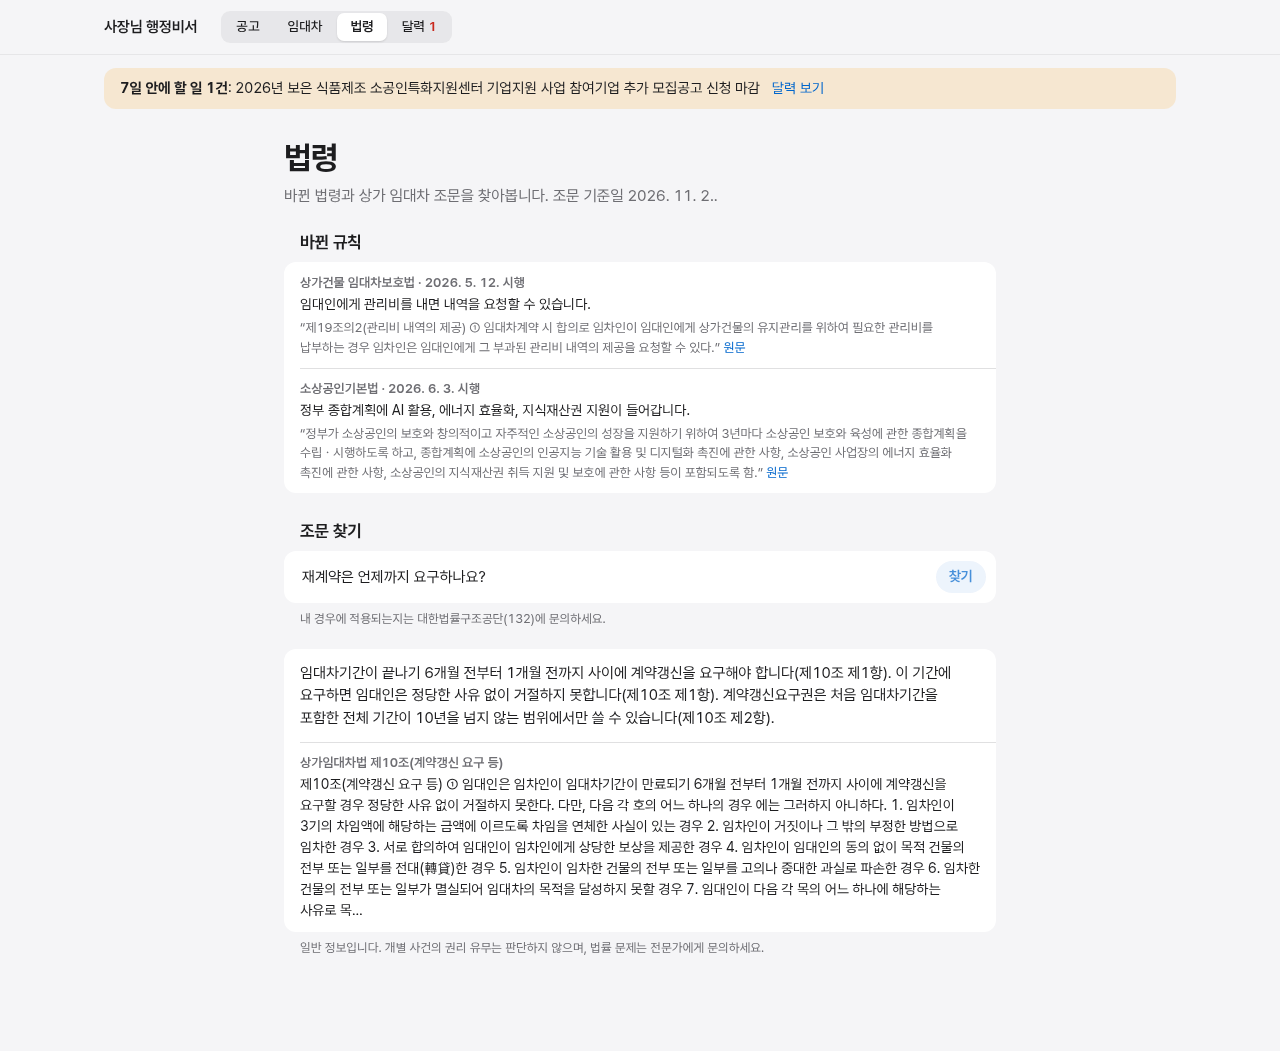
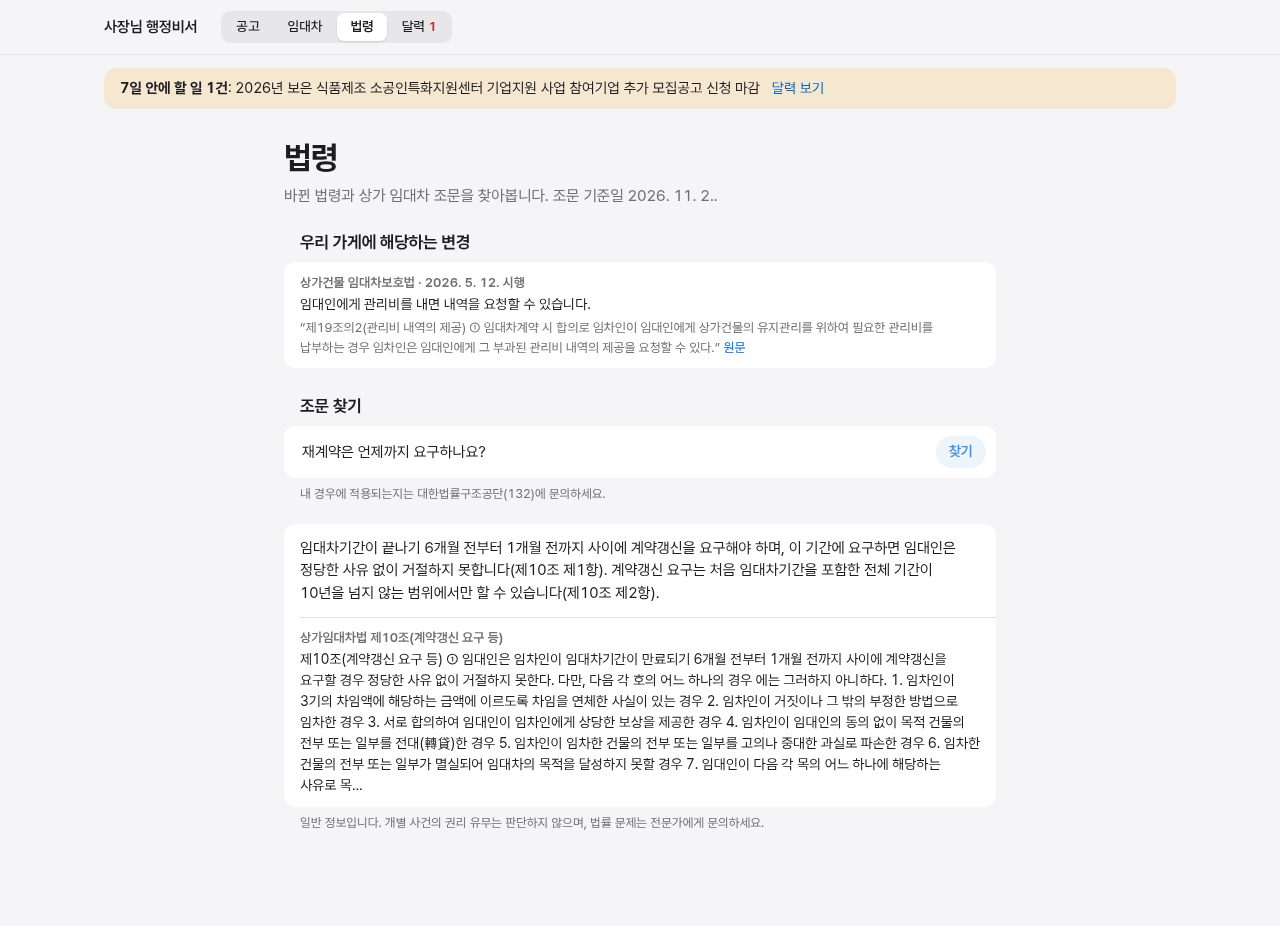
실행 안내 보완, 법령 화면 교체, 서식 입력 스크립트 추가

diff --git a/scripts/fill_forms_20261102_v1.py b/scripts/fill_forms_20261102_v1.py
@@ -1,0 +1,120 @@
+"""서식 입력 스크립트 생성기.
+
+흐름: 칸별 문구를 정의 → 한글 자동화용 PowerShell 작업 파일을 만듦 → 실행은 한글이 설치된 PC에서 한다.
+목적: 원본 HWP 서식의 칸에 내용을 직접 넣는다. 수치는 results/RESULTS_20261102.md와 같아야 한다.
+결과 해석: 이름, 생년월일, 연락처, 팀명, 날인, 서명은 넣지 않는다. 참가자가 직접 쓴다.
+"""
+import sys
+from PIL import Image
+
+R = "/home/abcde/sosang_agent"
+TOPIC = "소상공인 지원공고·임대차 계약서·법령 확인 에이전트"
+
+
+def q(s):
+    return "'" + s.replace("'", "''") + "'"
+
+
+def arr(lines):
+    return "@(" + ",".join(q(x) for x in lines) + ")"
+
+
+def table(rows):
+    return "@(" + ",".join("," + arr(r) if False else arr(r) for r in rows) + ")"
+
+
+def pic(f, w):
+    a, b = Image.open(f"{R}/results/screens/{f}" if f != "fig_holdout3.png" else f"{R}/results/{f}").size
+    return ("pic", f, w, round(w * b / a))
+
+
+CELLS = [
+    ("겪고 있는 문제와 해결 필요성을 간략히", ["담당 직원이 없는 소상공인은 지원공고, 임대차 기한, 법령 변경을 혼자 확인해야 함. 수집 공고 46건은 평균 약 1.4만 자이고, 같은 소기업 매출 기준도 공고마다 다르게 적혀 있음"]),
+    ("활용한 AI 기술", ["Claude API 기반 에이전트 10개. 숫자·날짜·업종은 RDF 온톨로지와 규칙으로 대조, 규칙으로 정하지 못한 조건은 LLM이 공고 문구로 대조. 출력은 SHACL과 인용 확인으로 검사. 개발·검수에 Claude Code, Codex 사용"]),
+    ("개발·구현한 프로그램·서비스 등의 핵심", ["공고 조건 일치/불일치/확인 필요와 근거, 지원 방식·상환 여부·금액, 필요한 항목만 질문, 계약서 날짜로 법정 기간 계산(권리 유무는 판단하지 않음), 법령 변경·조문 찾기, 행정 달력. 웹 시제품, 시연 영상"]),
+    ("실제 업무·경영 현장에서 활용할 수 있는", ["가게 정보와 계약서를 넣으면 대조한 공고, 법정 기간, 해당 법령을 한 화면에서 확인하고 달력에 등록. 최종 신청 자격은 주관기관에, 개별 법률 문제는 전문가에게 확인"]),
+    ("고객서비스 개선 등 기대효과", ["공고 확인 시간과 기한 누락 감소 기대. 효과는 측정하지 않음"]),
+]
+B1 = ["대상: 지원공고와 임대차 기한을 직접 챙기는 소상공인·소공인, 예비창업자",
+      "참고 통계: 중소기업중앙회 소상공인 500개사 조사 보도에서 디지털·AI 정부 지원사업 미참여 이유로 '지원사업이 있는지 몰랐다'가 76.2%로 가장 많음(이데일리, 2026.6.9). 디지털·AI 지원사업 조사이며 지원사업 전체로 일반화하지 않음",
+      "실제 공고에서 확인한 문제",
+      "- 같은 소기업 매출 기준이 공고마다 다름: 음식점 생활문화 공고 15억 원, 고용보험료 공고 10억 원(현행 법령 기준 미확인)",
+      "- 같은 공고 안의 표기 충돌: 보은군 공고 소재지 조건 '본사, 공장 중 1개 이상'과 '본사, 공장 또는 사업장'",
+      "- 일정 표기 오류: 보은군 공고 '10.22~10.5'",
+      "- 다른 공고의 제외 업종 참조: 브랜드 공고가 정책자금 제외 업종 참조",
+      "임대차 기한: 상가건물 임대차보호법 제10조 제1항의 갱신 요구 기간은 만료 6개월 전부터 1개월 전까지이며, 전체 임대차기간 제한(제2항)과 거절 사유가 따로 있음",
+      "범위: 공고 대조와 조문 정보까지. 법률 해석, 계약서 유불리 검토, 자격 확정, 서류 대리 작성은 하지 않음. 표현을 제한해도 법적 위험이 모두 없어지지는 않으므로 외부 공개·유료화 전 전문가 검토 필요"]
+B2 = ["판단 순서: 규칙 → 사장님 답변·설명 → LLM 조건 판단. 기관 재량 조항과 공고 내 표기 충돌은 판단하지 않음. 기관 재량 표시는 3차 측정에서 정답 대비 12/24로 누락이 남아 있음",
+      "사용 도구",
+      "- Claude API(claude-opus-5-5): 시스템 내 에이전트",
+      "- Claude Code: 코드 작성, 데이터 수집, 평가 실행, 라벨 초안 보조",
+      "- Codex CLI: 기획 검토, 정답 라벨 감수, 독립 정답 작성, 보고서 감수",
+      "- rdflib, pySHACL, FastAPI, PyMuPDF, matplotlib",
+      "데이터: 중소벤처기업부·기업마당 공개 공고, 국가법령정보센터 조문(2026-11-02 수집). 가상 프로필과 가상 계약서만 사용. 개인정보·기업 내부 데이터 미사용",
+      ("table", [["구성", "역할"], ["총괄 에이전트", "공고 분석 때 도구 호출 순서 결정, 재추출 지시, 추출 조건 채택"], ["문서 해석", "공고 조건 구조화, 근거 문구·쪽 번호 포함"], ["근거 검증", "조건을 원문과 독립 대조, 지적의 원문 근거도 코드로 확인"], ["진술 대조", "규칙으로 대조하기 어려운 조건을 사장님 설명과 대조, 설명에 없는 문구를 든 결과는 폐기"], ["조건 판단", "남은 조건을 공고 문구와 입력 정보로 잠정 대조, 공고에 없는 문구를 든 결과는 폐기, 사용 공고는 화면 표시"], ["자금 해석", "지원 방식, 상환 여부, 금액, 자부담 추출"], ["임대차 문서 해석", "계약서의 기간, 보증금, 차임, 소재지 추출"], ["법령 안내", "저장된 조문·개정 설명만 근거로 일반 내용 설명, 개별 사건 판단은 상담처 안내"], ["프로필 인터뷰", "누락된 입력 항목을 쉬운 질문으로 작성"], ["안내 작성", "판정 결과로 할 일 작성, 금지 표현 검사"], ["온톨로지(RDF)", "업종 계층, 출처별 소기업 매출 기준, 제외 업종 코드 39개와 예외, 임대차 기간 규칙, 지역별 보증금액"], ["SHACL·lint", "조건 구조 위반, 빈 값, 기간 누락, 인용 오류 검사"], ["규칙 판정기", "숫자·날짜·업종 조건, OR 그룹, 기간 상태 계산"]])]
+B3 = ["사용자 흐름",
+      "1) 가게 정보 입력(선택: 가게 설명, 매출 변화)",
+      "2) 공고별 결과 확인: 일치/확인 필요/불일치, 지원 방식, 상환 여부, 금액",
+      "3) 질문 답변: 답은 모든 공고에 반영, 상태 변화 표시",
+      "4) 필요하면 남은 조건을 AI로 잠정 대조: 'AI 판단 포함, 기관 확인 필요' 표시",
+      "5) 조건별 근거 확인, 할 일 보기, 공고 원문 이동",
+      "6) 임대차 계약서를 넣어 법정 기간과 금액 기준 확인",
+      "7) 가게에 해당하는 법령 변경과 조문 확인",
+      "8) 행정 달력 확인, 달력 파일 받기(7일 전·1일 전 알림)",
+      pic("flow_evidence.png", 150), pic("calendar.png", 150),
+      "테스트 결과: 코드와 정답을 먼저 고정한 뒤 새 공고 5건, 가상 사례 30건으로 측정",
+      ("table", [["비교군", "공고 상태 일치", "잘못된 일치", "확인 필요 재현율"], ["풀 시스템", "23/30", "4", "7/10"], ["온톨로지 제거", "17/30", "1", "9/10"], ["LLM 조건 판단 제거", "16/30", "3", "6/10"], ["진술 대조까지 제거", "11/30", "0", "5/10"], ["단일 에이전트", "11/30", "0", "5/10"], ["LLM 직접 응답", "27/30", "0", "9/10"]]),
+      pic("fig_holdout3.png", 140),
+      "- 잘못된 일치: 정답이 불일치·확인 필요인데 일치로 출력한 사례",
+      "- 공고 상태 일치와 잘못된 일치 모두 LLM 직접 응답이 더 좋았다. 앞선 측정에서도 일치 수는 같은 방향이었다",
+      "- 풀 시스템의 잘못된 일치 4건이 가장 큰 약점이다. 화면에 AI 판단 여부를 표시하고 기관 확인을 안내한다",
+      "- 제거판 대비 일치 수 차이는 LLM 조건 판단 +7건, 진술 대조 +5건, 온톨로지 +6건이며, 잘못된 일치도 각각 +1, +3, +3건 증가",
+      "- 이번 표본에서 재검증 루프에 따른 공고 상태 일치 수 차이는 관찰되지 않음(각 11/30)",
+      "- 기간 상태는 전 비교군 30/30. 조건 추출 F1은 엄격 기준 0.506, 필드·값 기준 0.776, 인용 오류 0건(문구 존재 기준)",
+      "- 측정 이력(풀 시스템/직접 응답, 참가자 수정 정답으로 재채점): 첫 평가 26/42·38/42(재채점 전 직접 응답 39), 1차 새 공고 15/30·24/30(재채점 전 14·23), 2차 새 공고 19/24·23/24(재채점 전 20·24), 3차 새 공고 23/30·27/30. 회차마다 오답을 보고 구조를 개선해 코드가 다르며, 수정 후 같은 공고를 다시 잰 수치는 주 수치로 쓰지 않음",
+      "- 정답 독립성 점검: Codex가 1·2차 54건의 정답을 따로 작성한 결과 49건이 기존 정답과 같았고, Codex 정답 기준으로도 직접 응답이 가장 높았다(직접 응답 44, 풀 시스템 40)",
+      "직접 응답과 다른 점",
+      "- 근거: 조건별 원문 문구와 쪽 번호. 쪽 구분이 없는 문서는 쪽 번호가 1로 표시됨",
+      "- 반복 일관성: 진술 대조 3회 반복 상태 변경 0건, 조건 판단 2회 반복 30건 중 1건. 직접 응답은 별도 측정(1차) 3회 반복 30건 중 3건. 동일 표본 비교는 아님",
+      "- 비용(호출 기록의 토큰 × 입력 $4·출력 $20/백만 토큰 추정, 질문·안내 작성 제외): 직접 응답 1회 약 $0.066, 조건 확정 공고당 약 $0.6, 진술 대조 1회 약 $0.009, 조건 판단 1회 약 $0.056, 규칙 판정은 LLM 호출 없음",
+      "추가 기능 점검(작성자가 정답을 정한 소규모 점검, 법률 정확도 평가 아님)",
+      ("table", [["기능", "결과"], ["가상 계약서 5건의 시작일·종료일·보증금·차임 추출(날짜 미기재 1건 포함)", "5/5"], ["법령 질문 12건 조문 검색", "10/12"], ["판단 요구 질문 3건 판단 거절", "3/3"], ["공고 15건 돈 항목 근거 문구 확인", "15/15"]]),
+      "한계",
+      "- 정답은 AI 초안과 Codex 감수 단계이며 1·2차 일부 조항만 참가자가 확인함. 참가자 수정(5사례)은 점수를 본 뒤 재채점으로 반영했고 시스템은 다시 실행하지 않음. 3차 정답은 참가자가 정한 원칙에 따라 AI가 작성했으며 사람이 사례별로 검증하지 않음. 전문가 검증 없음",
+      "- 정답과 프로필 문장을 AI가 작성해 LLM 계열 비교군에 유리할 수 있음",
+      "- 프로필과 계약서는 가상이고 표본이 작아 공고 전반의 정확도가 아님. 실제 사장님 테스트와 시간 절감 측정은 하지 않음",
+      "- 조문은 2026-11-02 수집본. 메시지 발송 알림은 없고 화면 표시와 달력 파일 알림만 제공"]
+B4 = ["활용: 소상공인 지원센터, 상인회 상담 창구에서 시범 사용 검토",
+      "기대효과: 공고 확인 시간과 기한 누락 감소. 효과는 측정하지 않았으며 사장님 대상 테스트가 다음 단계임",
+      "비용 예시(공고 46건 가정, 추정): 직접 응답은 사용자당 약 $3.0. 이 시스템은 최초 조건 확정에 약 $28이 들고(공고 갱신·재추출 시 추가), 규칙 판정의 추가 LLM 비용은 없음. 진술 대조를 46건 모두 수행하면 사용자당 약 $0.41, 조건 판단까지 수행하면 약 $2.6 추가"]
+B5 = ["실제 사장님 테스트와 사람이 작성한 정답으로 정확도 재측정",
+      "잘못된 일치 감소: LLM 교차 확인, OR 안의 AND 표현, 재보증 제한 목록 추가",
+      "공고·법령 자동 수집, 정정 공고 비교, 메시지 알림",
+      "지자체 공고, 주택 임대차, 세무·노무 정보로 확대"]
+
+
+def body(find, blocks):
+    out = [f"if(-not (Find {q(find)})){{ 'NOTFOUND {find}' }} else {{ SelPara; $h.Run('Delete')|Out-Null; Black"]
+    first = True
+    for b in blocks:
+        if not first:
+            out.append("Para; Black")
+        first = False
+        if isinstance(b, str):
+            out.append(f"Ins {q(b)}")
+        elif b[0] == "table":
+            rows = "@(" + ",".join("(," + "@(" + ",".join(q(c) for c in r) + "))" if False else "@(" + ",".join(q(c) for c in r) + ")" for r in b[1]) + ")"
+            out.append(f"Table {rows}")
+        else:
+            out.append(f"Pic {q(b[1])} {b[2]} {b[3]}")
+    out.append("'ok body " + find[:14].replace("'", "") + "' }")
+    return "\n".join(out)
+
+
+f2 = [f'"open " + $h.Open("$dir\\form2.hwp","HWP","")', f'RightOf {q("공모 분야")} {q("③ 업무자동화·생산성")}', f'RightOf {q("출품 주제")} {q(TOPIC)}', "if(Find '2026. ○○. ○○'){ Ins '2026. 11. 03' } else { 'NOTFOUND date' }", f'RightOf {q("AI활용 주제")} {q(TOPIC)}']
+f2 += [f"FillPara {q(a)} {arr(b)}" for a, b in CELLS]
+f2 += [body("겪고 있는 문제와 해결 필요성, 대상", B1), "DelPara '문제 해결을 위해 활용한 AI 기술' | Out-Null" if False else body("문제 해결을 위해 활용한", B2), "DelPara '생성형 AI, 기존'", body("개발·구현한 프로그램·서비스 등의 주요", B3), "DelPara '필요한 경우 화면 캡처'", "if(Find '테스트 결과 등을 활용하여 제시'){ $h.Run('Delete')|Out-Null; 'del tail' } else { 'no tail' }", body("출품작을 중소기업", B4), "DelPara '실제 적용 또는 테스트'", body("출품작의 기능 개선", B5)]
+f2 += ['"pages " + $h.PageCount', '"save " + $h.SaveAs("$dir\\form2_out.hwp","HWP","")', '"pdf " + $h.SaveAs("$dir\\form2_out.pdf","PDF","")']
+f1 = ['"open " + $h.Open("$dir\\form1.hwp","HWP","")', "foreach($p in @(@('□ 자체 개발','☑ 자체 개발'),@('□ 기존 AI','☑ 기존 AI'))){ if(Find $p[0]){ Ins $p[1]; 'ok '+$p[1] } else { 'NOTFOUND '+$p[0] } }", "if(Find '☐ 팀(   명)'){ Ins '☑ 팀( 3 명)'; 'ok team' } elseif(Find '□ 팀('){ SelPara; 'team-other' } else { 'NOTFOUND team' }", "FillPara '① 매출' @('③ 업무자동화·생산성')", "DelPara '④'", f"FillPara 'AI를 활용하여 수행한' {arr([TOPIC])}", "DelPara '(작성 시 파란색'", '"save " + $h.SaveAs("$dir\\form1_out.hwp","HWP","")', '"pdf " + $h.SaveAs("$dir\\form1_out.pdf","PDF","")']
+open(sys.argv[1], "w", encoding="utf-8").write("\n".join(f2))
+open(sys.argv[2], "w", encoding="utf-8").write("\n".join(f1))

diff --git a/README.md b/README.md
@@ -42,7 +42,7 @@
 
 ## 실행
 
-경로가 `~/sosang_agent`로 고정되어 있습니다.
+경로가 `~/sosang_agent`로 고정되어 있습니다. 새로 받아 실행해 화면, 공고 판정, 예시 계약서, 법령 변경 표시까지 확인했습니다. LLM 기능은 키가 필요합니다.
 
 ```bash
 git clone https://github.com/Kim-Da-yeon/sosang-agent.git ~/sosang_agent
